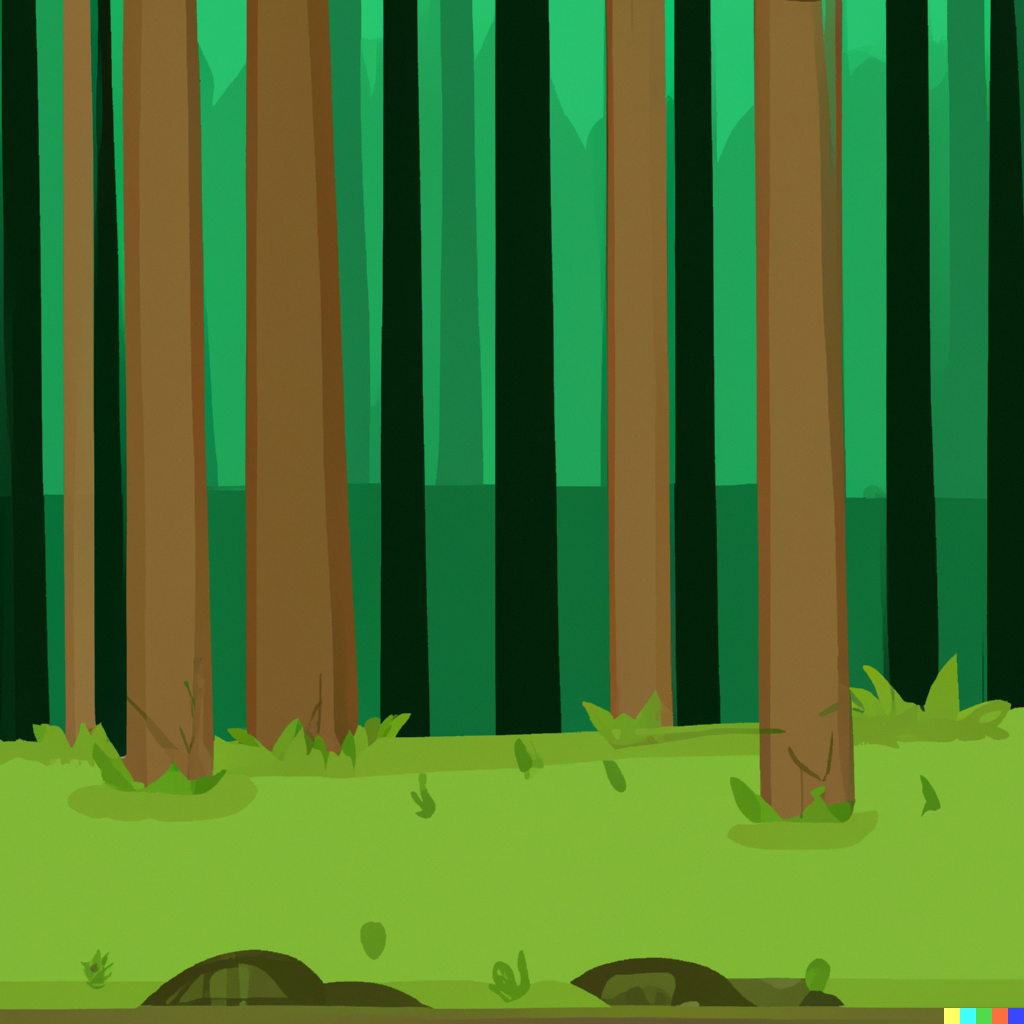
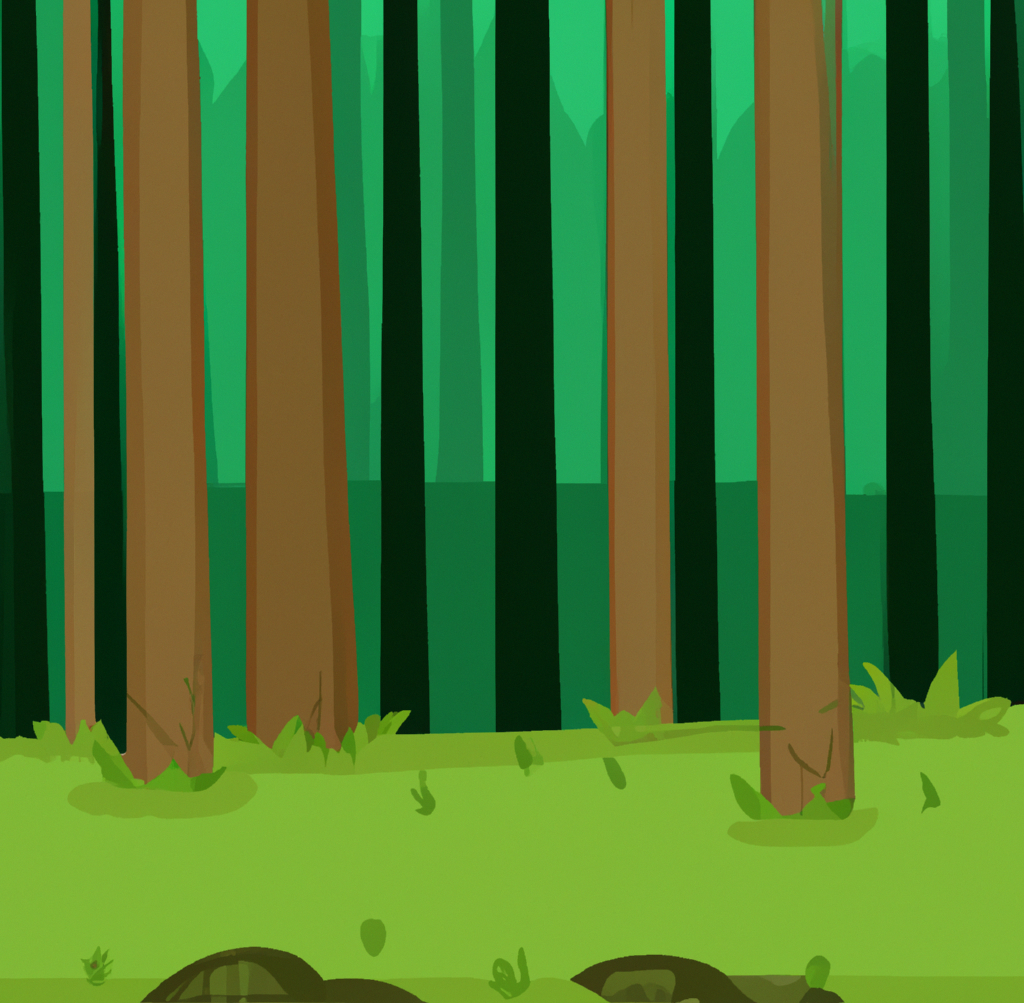
cleaned onStep into smaller functions

diff --git a/main.py b/main.py
@@ -65,11 +65,14 @@ def restartApp(app):
     app.pinkFlower = CMUImage(Image.open("images/pinkFlowerNoBG.png"))
 
     # background
-    app.backgroundImage = CMUImage(Image.open("images/DALLEforest1.png"))
+    app.backgroundImage = CMUImage(Image.open("images/DALLEforest1R.jpg"))
+    app.bgx1 = 0.5*app.width
+    app.bgx2 = 1.5*app.width
+    app.bgy = app.height/2
 
     app.player = Player()
-    app.firstPlayerSpeed = -3
-    app.nextPlayerSpeed = 0
+    app.firstPlayerSpeed = app.nextPlayerSpeed = -3
+    #app.nextPlayerSpeed = 0
     app.energyLoss = 0.25
 
 # check win/lose, summon/remove obstacles and flowers
@@ -100,69 +103,24 @@ def onStep(app):
             #print("1/3")
             app.nextPlayerSpeed = app.firstPlayerSpeed - 1
 
-        # removing obstacles
         if not app.paused:
+            # moving the background
+            moveBackground(app)
+            
             # removing obstacles if player passes them
-            obIndex = 0
-            while obIndex < len(app.obstacles):
-                obstacle = app.obstacles[obIndex]
-                obstacle.takeStep()
-                if obstacle.obstaclePassed():
-                    app.obstacles.pop(obIndex) # delete obstacle when passed
-                else:
-                    obIndex += 1
+            removeObstacles(app)
             
             # removing flowers if player passes them
-            flowerIndex = 0
-            while flowerIndex < len(app.flowers):
-                flower = app.flowers[flowerIndex]
-                flower.takeStep()
-                if flower.flowerPassed():
-                    app.flowers.pop(flowerIndex) # delete flower when passed
-                else:
-                    flowerIndex += 1
+            removeFlowers(app)
         
             # summoning obstacles
-            numSummoning = random.randrange(1, app.numObstacles) # num of obstacles
-            enoughTimePassed = (time.time() - app.lastSummonedObstacle) > 1
-            if enoughTimePassed and (len(app.obstacles) < numSummoning):
-                obstacle = randomObstacle(app, random.randrange(10))
-                # makes sure obstacles aren't conjoined and are survivable
-                for ob in app.obstacles:
-                    if type(ob) == Wasp: continue
-                    while (obstacle.inOtherObstacle(ob) or 
-                            not isSurvivable(app, obstacle)):
-                        if obstacle.inOtherObstacle(ob):
-                            obstacle.x += ob.r # if conjoined, move it a little
-                        elif (isinstance(obstacle, Web) and 
-                              not isSurvivable(app, obstacle)):
-                            obstacle.r -= 10
-                            obstacle.y = obstacle.r
-                        elif isinstance(obstacle, Net):
-                             obstacle.r -= 10
-                             obstacle.y = app.height-obstacle.r
-                        else:
-                            obstacle = randomObstacle(app, random.randrange(10))
-                app.obstacles.append(obstacle)
-                app.lastSummonedObstacle = time.time()
+            summonObstacles(app)
             
-        # summoning flowers
-        if not app.paused:
-            numFlowersSummoning = random.randrange(0, app.numFlowers)
-            flowerTime = (time.time() - app.lastSummonedFlower) > 2
-            if flowerTime and (len(app.flowers) < numFlowersSummoning):
-                flower = randomFlower(random.randrange(10))
-                app.flowers.append(flower)
-                app.lastSummonedFlower = time.time()
+            # summoning flowers
+            summonFlowers(app)
             
             # if player touched a flower, give player energy
-            i = 0
-            while i < len(app.flowers):
-                if app.player.gotFlower(app.flowers[i]):
-                    app.player.addEnergy(app.flowers[i])
-                    app.flowers.pop(i)
-                else:
-                    i += 1
+            updateEnergy(app)
 
         # game over if player has no energy left
         if app.player.energy <= 0:
@@ -344,17 +302,6 @@ def isSurvivable(app, potentialObstacle):
         if abs(y - r) < 60:
             return False
     return True
-
-# from list of obstacles, returns the obstacle with greatest y value 
-# def getGreatestY(app):
-#     maxY = 0
-#     if app.obstacles != []: 
-#         maxObstacle = app.obstacles[0]
-#         for obstacle in app.obstacles:
-#             if obstacle.y > maxY:
-#                 maxY = obstacle.y
-#                 maxObstacle = obstacle
-#         return maxObstacle
 
 def drawStartMenu(app):
     drawBackground(app, True)
@@ -568,11 +515,13 @@ def drawTimerBar(app):
     
     # draw labels
     timeLeft = app.timeToSurvive - int(app.timeSurvived)
+    minLeft = timeLeft // 60
+    secLeft = timeLeft % 60
     if app.paused: timeLeft = 60 - int(app.timeSurvived)
     labelX = barTopX + barWidth/2
     labelY = 20 + fullBarHeight + app.height/2
     drawLabel("Time", labelX, labelY, size=16, fill=color, bold=True)
-    drawLabel(f"{timeLeft}", labelX, labelY + 15, fill=color, bold=True)
+    drawLabel(f"{minLeft}:{secLeft}", labelX, labelY + 15, fill=color, bold=True)
     
 # draws the win screen: player wins if they survived a minute
 def drawWinScreen(app):
@@ -628,7 +577,9 @@ def drawLoseScreen(app):
 
 # draws infinite background
 def drawBackground(app, needsOpacity):
-    drawImage(app.backgroundImage, app.width/2, app.height/2, align="center")
+    drawImage(app.backgroundImage, app.bgx1, app.bgy, align="center")
+    drawImage(app.backgroundImage, app.bgx2, app.bgy, align="center")
+    #drawImage(app.backgroundImage, app.width/2, app.height/2, align="center")
     # opaque rectangle that lets you see text
     if needsOpacity: 
         drawRect(0, 0, app.width, app.height, fill="white", opacity=50)
@@ -638,6 +589,82 @@ def distance(x0, y0, x1, y1):
     x = x0 - x1
     y = y0 - y1
     return (x**2 + y**2)**0.5
+
+# ON STEP FUNCTIONS BELOW
+
+# move the background
+def moveBackground(app):
+    app.bgx1 += app.nextPlayerSpeed
+    app.bgx2 += app.nextPlayerSpeed
+    if app.bgx1 <= -0.5*app.width:
+        app.bgx1 = app.bgx2 + app.width
+    elif app.bgx2 <= -0.5*app.width:
+        app.bgx2 = app.bgx1 + app.width
+
+def removeObstacles(app):
+    obIndex = 0
+    while obIndex < len(app.obstacles):
+        obstacle = app.obstacles[obIndex]
+        obstacle.takeStep()
+        if obstacle.obstaclePassed():
+            app.obstacles.pop(obIndex) # delete obstacle when passed
+        else:
+            obIndex += 1
+
+# remove flowers once they're passed
+def removeFlowers(app):
+    flowerIndex = 0
+    while flowerIndex < len(app.flowers):
+        flower = app.flowers[flowerIndex]
+        flower.takeStep()
+        if flower.flowerPassed():
+            app.flowers.pop(flowerIndex) # delete flower when passed
+        else:
+            flowerIndex += 1
+
+# summoning obstacles survivably
+def summonObstacles(app):
+    numSummoning = random.randrange(1, app.numObstacles) # num of obstacles
+    enoughTimePassed = (time.time() - app.lastSummonedObstacle) > 1
+    if enoughTimePassed and (len(app.obstacles) < numSummoning):
+        obstacle = randomObstacle(app, random.randrange(10))
+        # makes sure obstacles aren't conjoined and are survivable
+        for ob in app.obstacles:
+            if type(ob) == Wasp: continue
+            while (obstacle.inOtherObstacle(ob) or 
+                    not isSurvivable(app, obstacle)):
+                if obstacle.inOtherObstacle(ob):
+                    obstacle.x += ob.r # if conjoined, move it a little
+                elif (isinstance(obstacle, Web) and 
+                        not isSurvivable(app, obstacle)):
+                    obstacle.r -= 10
+                    obstacle.y = obstacle.r
+                elif isinstance(obstacle, Net):
+                        obstacle.r -= 10
+                        obstacle.y = app.height-obstacle.r
+                else:
+                    obstacle = randomObstacle(app, random.randrange(10))
+        app.obstacles.append(obstacle)
+        app.lastSummonedObstacle = time.time()
+
+# summon flowers
+def summonFlowers(app):
+    numFlowersSummoning = random.randrange(0, app.numFlowers)
+    flowerTime = (time.time() - app.lastSummonedFlower) > 2
+    if flowerTime and (len(app.flowers) < numFlowersSummoning):
+        flower = randomFlower(random.randrange(10))
+        app.flowers.append(flower)
+        app.lastSummonedFlower = time.time()
+
+# if a player got a flower, give them energy
+def updateEnergy(app):
+    i = 0 
+    while i < len(app.flowers):
+        if app.player.gotFlower(app.flowers[i]):
+            app.player.addEnergy(app.flowers[i])
+            app.flowers.pop(i)
+        else:
+            i += 1 
 
 def main():
     runApp(width = 800, height = 600)

diff --git a/flower.py b/flower.py
@@ -18,7 +18,7 @@ class Flower:
     # draws flower
     def draw(self):
         drawImage(self.image, self.x, self.y, 
-                  width=self.r*2.5, height = self.r*2, align="center")
+                  width=self.r*2.4, height = self.r*2, align="center")
     
     # removes obstacle if player avoided it
     def flowerPassed(self):
@@ -37,7 +37,7 @@ class BigFlower(Flower):
         self.x = app.width + self.r
         self.y = -self.r
         self.dx = -3
-        self.dy = 2
+        self.dy = 2.5
         self.energy = 1
         self.image = app.redFlower
 

diff --git a/README.md b/README.md
@@ -1,5 +1,13 @@
 # braveButterfly
 112 TP
+This game is similar to Flappy Bird in that there are obstacles to avoid by jumping/falling.
+If you select a premade difficulty (Easy, Medium, or Hard), the obstacle speeds will gradually increase until 1 minute passes and you win.
+Please keep track of your energy level and time left on the left hand side of the screen.
+If you energy reaches 0, you will lose.
+
+Please run the 'main.py' file for this game.
+This game also uses the 'cmu_graphics' library.
+
 How To Play:
 - Choose a difficulty level or customize your own
 - Choose your butterfly
@@ -11,3 +19,8 @@ How To Play:
 - Every time you jump, you lose some energy, so refuel by catching flowers
     - red flowers give more energy than pink flowers
 - Survive for 1 minute (or for however long you customized your level to)
+
+Keyboard Commands:
+- SPACE to jump
+- 'p' to pause the game
+- 'r' to restart the game
